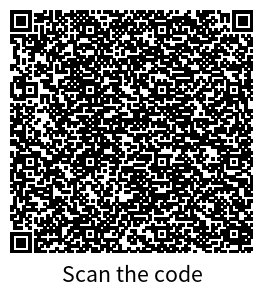
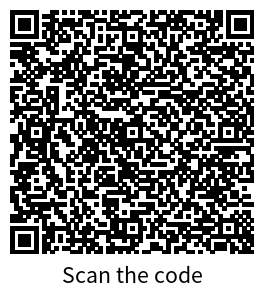
Wired up per item QR code in the item edit screen (NO AIM)

diff --git a/includes/wpinventory_qr_code.class.php b/includes/wpinventory_qr_code.class.php
@@ -83,11 +83,11 @@ class WPInventoryQRCodeInit extends WPIMItem {
 	 */
 	private static function add_actions() {
 		$actions = [
-			'init'                  => NULL,
-			'admin_enqueue_scripts' => NULL,
-			'wpim_admin_menu'       => NULL,
-			'wpim_edit_settings'    => NULL,
-			'wpim_save_settings'    => [ 10, 1 ]
+			'init'                     => NULL,
+			'wpim_admin_menu'          => NULL,
+			'wpim_edit_settings'       => NULL,
+			'wpim_save_settings'       => [ 10, 1 ],
+			'wpim_admin_edit_form_end' => [ 10, 2 ]
 		];
 
 		foreach ( $actions as $action => $args ) {
@@ -201,6 +201,11 @@ class WPInventoryQRCodeInit extends WPIMItem {
 		// No need to do anything here.
 	}
 
+	public static function wpim_admin_edit_form_end( $item, $inventory_id ) {
+		$data = self::get_qr_code_data( $inventory_id );
+		echo '<tr><th>QR Code</th><td>' . self::get_qr_code( $data ) . '</td></tr>';
+	}
+
 	/**
 	 * Controller for high-level bulk item management actions
 	 */
@@ -224,7 +229,7 @@ class WPInventoryQRCodeInit extends WPIMItem {
 	 * Admin QR Code interface
 	 */
 	public static function admin_qr_codes() {
-	    
+
 		echo '<h3>' . self::__( 'QR Code Manager' ) . '</h3>';
 
 		/**
@@ -241,63 +246,76 @@ class WPInventoryQRCodeInit extends WPIMItem {
 		 * For POC, let's fetch the very first item
 		 */
 
-		$db    = new WPIMDB();
-		$table = $db->inventory_table;
-		$query = "SELECT inventory_id FROM " . $table . " LIMIT 1";
-		$id    = $db->get_results( $query );
-		$id    = (int) $id[0]->inventory_id;
+		$data = self::get_qr_code_data( $inventory_id = NULL );
 
-		$item = new WPIMItem();
-		$item = $item->get( $id );
+		echo self::get_qr_code( $data );
+	}
 
-		$data = '<p><strong>ID: </strong> ' . $item->inventory_id . '</p>';
-		$data .= '<p><strong>Number: </strong>' . $item->inventory_number . '</p>';
-		$data .= '<p><strong>Name: </strong>' . $item->inventory_name . '</p>';
-		$data .= '<div><strong>Description</strong><br>' . $item->inventory_description . '</div>';
-		$data .= '<p><strong>Size: </strong>' . $item->inventory_size . '</p>';
-		$data .= '<p><strong>Manufacturer: </strong>' . $item->inventory_manufacturer . '</p>';
-		$data .= '<p><strong>Make: </strong>' . $item->inventory_make . '</p>';
-		$data .= '<p><strong>Model: </strong>' . $item->inventory_model . '</p>';
-		$data .= '<p><strong>Year: </strong>' . $item->inventory_year . '</p>';
-		$data .= '<p><strong>Serial: </strong>' . $item->inventory_serial . '</p>';
-		$data .= '<p><strong>FOB: </strong>' . $item->inventory_fob . '</p>';
-		$data .= '<p><strong>Quantity: </strong>' . $item->inventory_quantity . '</p>';
-		$data .= '<p><strong>Quantity Reserved: </strong>' . $item->inventory_quantity_reserved . '</p>';
-		$data .= '<p><strong>Pice: </strong>' . $item->inventory_price . '</p>';
-		$data .= '<p><strong>Category ID: </strong>' . $item->category_id . '</p>';
+	public static function get_qr_code_data( $inventory_id ) {
 
 
-		$qrCode = new QrCode( $data );
-		$qrCode->setSize( 300 );
-		$qrCode->setMargin( 10 );
+		if ( ! self::request( 'inventory_id' ) || $inventory_id == NULL ) {
+			// No ID present, grab first one from the items table
+			$db           = new WPIMDB();
+			$table        = $db->inventory_table;
+			$query        = "SELECT * FROM " . $table . " LIMIT 1";
+			$item         = $db->get_results( $query );
+			$inventory_id = (int) $item[0]->inventory_id;
+		}
 
-// Set advanced options
-		$qrCode->setWriterByName( 'png' );
-		$qrCode->setEncoding( 'UTF-8' );
-		$qrCode->setErrorCorrectionLevel( ErrorCorrectionLevel::LOW() );
-		$qrCode->setForegroundColor( [ 'r' => 0, 'g' => 0, 'b' => 0, 'a' => 0 ] );
-		$qrCode->setBackgroundColor( [ 'r' => 255, 'g' => 255, 'b' => 255, 'a' => 0 ] );
-		$qrCode->setLabel( 'Scan the code', 16, QRCODE_PLUGIN_PATH . 'vendor/qrcode/vendor/endroid/qr-code/assets/fonts/noto_sans.otf', LabelAlignment::CENTER() );
-//		$qrCode->setLogoPath( QRCODE_PLUGIN_PATH . 'vendor/qrcode/vendor/endroid/qr-code/assets/images/symfony.png' );
-		$qrCode->setLogoSize( 150, 200 );
-		$qrCode->setValidateResult( FALSE );
+		$admin = new WPIMAdmin();
+		/**
+		 * TODO:  If AIM is installed, this has to be per type
+		 */
+		$display = $admin::getDisplay( 'detail' );
 
-// Round block sizes to improve readability and make the blocks sharper in pixel based outputs (like png).
-// There are three approaches:
-		$qrCode->setRoundBlockSize( TRUE, QrCode::ROUND_BLOCK_SIZE_MODE_MARGIN ); // The size of the qr code is shrinked, if necessary, but the size of the final image remains unchanged due to additional margin being added (default)
-		$qrCode->setRoundBlockSize( TRUE, QrCode::ROUND_BLOCK_SIZE_MODE_ENLARGE ); // The size of the qr code and the final image is enlarged, if necessary
-		$qrCode->setRoundBlockSize( TRUE, QrCode::ROUND_BLOCK_SIZE_MODE_SHRINK ); // The size of the qr code and the final image is shrinked, if necessary
+		/** Example of a details list array
+		 * array (size=9)
+		 * 0 => string 'inventory_images' (length=16)
+		 * 1 => string 'inventory_name' (length=14)
+		 * 2 => string 'inventory_manufacturer' (length=22)
+		 * 3 => string 'inventory_make' (length=14)
+		 * 4 => string 'inventory_model' (length=15)
+		 * 5 => string 'inventory_price' (length=15)
+		 * 6 => string 'inventory_year' (length=14)
+		 * 7 => string 'inventory_description' (length=21)
+		 * 8 => string 'inventory_media' (length=15)
+		 */
 
-// Set additional writer options (SvgWriter example)
-		$qrCode->setWriterOptions( [ 'exclude_xml_declaration' => TRUE ] );
+		// This won't be necessary if it can't support images (I dont think)
+//		$item = new WPIMItem();
 
-// Save it to a file
-		$qrCode->writeFile( __DIR__ . '/qrcode.png' );
+		$data = '';
+		foreach ( $display AS $field ) {
 
-// Generate a data URI to include image data inline (i.e. inside an <img> tag)
-		$dataUri = $qrCode->writeDataUri();
+			/**
+			 * It may not be possible to do images:  https://stackoverflow.com/questions/9997587/qrcode-which-contains-an-image-and-text
+			 */
+//			if ( in_array( $field, [ 'inventory_images', 'inventory_image' ] ) ) {
+//				$images = $item->get_images( $inventory_id );
+//				if ( ! empty( $images ) ) {
+//					if ( 'inventory_images' == $field ) {
+//						if ( count( $images ) > 1 ) {
+//							$data .= '<p>We have some images here we need to deal with.</p>';
+//						}
+//					}
+//
+//					$data .= '<p><img src="' . $images[0]->thumbnail . '" alt=""></p>';
+//				}
+//			}
 
-		echo '<img src="' . $dataUri . '">';
+
+			$item = (array) self::get_inventory_item( $inventory_id );
+
+
+			foreach ( $item as $key => $value ) {
+				if ( $field == $key ) {
+					$data .= '<p><strong>' . $admin::get_label( $field ) . '</strong> ' . $value . '</p>';
+				}
+			}
+		}
+
+		return $data;
 	}
 
 	/**
@@ -333,6 +351,45 @@ class WPInventoryQRCodeInit extends WPIMItem {
 		}
 
 		return $add_ons;
+	}
+
+	public static function get_qr_code( $data ) {
+
+		if ( $data == NULL ) {
+			return 'No data was supplied to render the QR code.';
+		}
+
+		$qrCode = new QrCode( $data );
+		$qrCode->setSize( 300 );
+		$qrCode->setMargin( 10 );
+
+// Set advanced options
+		$qrCode->setWriterByName( 'png' );
+		$qrCode->setEncoding( 'UTF-8' );
+		$qrCode->setErrorCorrectionLevel( ErrorCorrectionLevel::LOW() );
+		$qrCode->setForegroundColor( [ 'r' => 0, 'g' => 0, 'b' => 0, 'a' => 0 ] );
+		$qrCode->setBackgroundColor( [ 'r' => 255, 'g' => 255, 'b' => 255, 'a' => 0 ] );
+		$qrCode->setLabel( 'Scan the code', 16, QRCODE_PLUGIN_PATH . 'vendor/qrcode/vendor/endroid/qr-code/assets/fonts/noto_sans.otf', LabelAlignment::CENTER() );
+//		$qrCode->setLogoPath( QRCODE_PLUGIN_PATH . 'vendor/qrcode/vendor/endroid/qr-code/assets/images/symfony.png' );
+		$qrCode->setLogoSize( 150, 200 );
+		$qrCode->setValidateResult( FALSE );
+
+// Round block sizes to improve readability and make the blocks sharper in pixel based outputs (like png).
+// There are three approaches:
+		$qrCode->setRoundBlockSize( TRUE, QrCode::ROUND_BLOCK_SIZE_MODE_MARGIN ); // The size of the qr code is shrinked, if necessary, but the size of the final image remains unchanged due to additional margin being added (default)
+		$qrCode->setRoundBlockSize( TRUE, QrCode::ROUND_BLOCK_SIZE_MODE_ENLARGE ); // The size of the qr code and the final image is enlarged, if necessary
+		$qrCode->setRoundBlockSize( TRUE, QrCode::ROUND_BLOCK_SIZE_MODE_SHRINK ); // The size of the qr code and the final image is shrinked, if necessary
+
+// Set additional writer options (SvgWriter example)
+		$qrCode->setWriterOptions( [ 'exclude_xml_declaration' => TRUE ] );
+
+// Save it to a file
+		$qrCode->writeFile( __DIR__ . '/qrcode.png' );
+
+// Generate a data URI to include image data inline (i.e. inside an <img> tag)
+		$dataUri = $qrCode->writeDataUri();
+
+		return '<img src="' . $dataUri . '">';
 	}
 }
 
